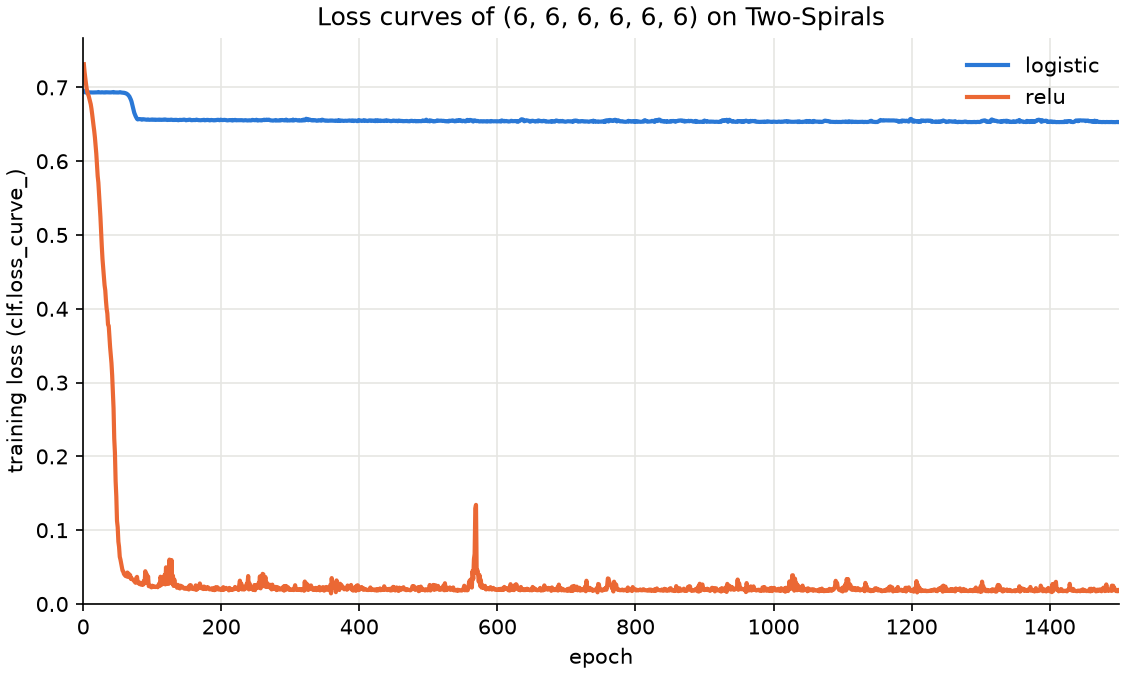
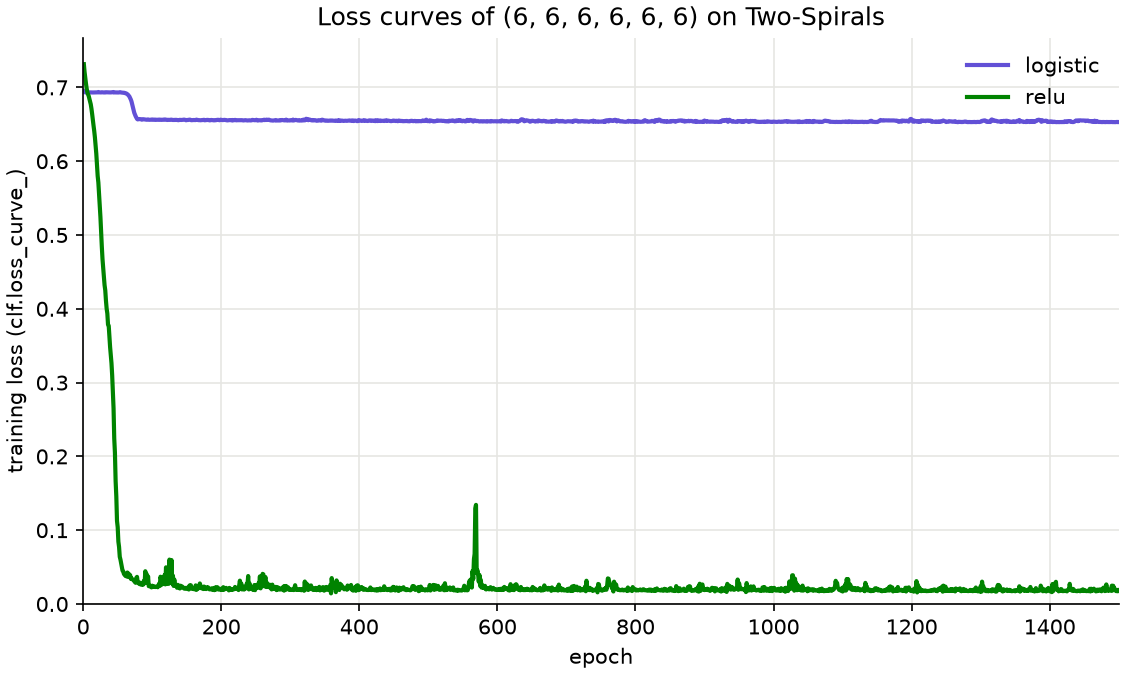
feat(part2): print lowest loss, train-test gaps and snapshot accuracies

Changed region(s): [[0.0933, 0.4356, 0.9956, 0.9022], [0.0622, 0.0933, 0.9956, 0.4044]]

diff --git a/part2_sklearn_exploration.py b/part2_sklearn_exploration.py
@@ -39,6 +39,7 @@ EVOLUTION_EPOCHS = (1, 25, 100, 300, 1000)
 CLASS_COLORS = ("#2a78d6", "#eb6834")
 REGION_COLORS = ("#d9e7f8", "#fbe4da")
 LINE_COLOR = "#222222"
+CURVE_COLORS = ("#6250d6", "#008300")  # the two loss curves
 
 
 def train(hidden_layer_sizes, activation, X, y):
@@ -56,6 +57,8 @@ def n_parameters(clf):
     return sum(W.size for W in clf.coefs_) + sum(b.size for b in clf.intercepts_)
 
 
+# make_grid, plot_boundary and add_legend are the same as in Part 1. common.py has to stay
+# exactly as the handout prints it, so they cannot be shared from there.
 def make_grid(X, n=300, margin=0.5):
     """An n x n grid covering the points X, as two meshgrid arrays and as an (n * n, 2) array."""
     x1 = np.linspace(X[:, 0].min() - margin, X[:, 0].max() + margin, n)
@@ -68,7 +71,7 @@ def plot_boundary(ax, G1, G2, P, X, y):
     """P is P(class 1) on the grid: shade the two regions, draw the 0.5 line, plot the points."""
     P = P.reshape(G1.shape)
     ax.contourf(G1, G2, P, levels=[0, 0.5, 1], colors=REGION_COLORS)
-    if P.min() < 0.5 < P.max():
+    if P.min() < 0.5 < P.max():  # no line to draw if the whole grid is on one side of 0.5
         ax.contour(G1, G2, P, levels=[0.5], colors=LINE_COLOR, linewidths=1.2)
     for label, color in enumerate(CLASS_COLORS):
         pts = X[y == label]
@@ -105,7 +108,7 @@ def loss_curve_figure(models):
     """Training loss per epoch of the deepest architecture, one line per activation."""
     arch = ARCHITECTURES[-1]
     fig, ax = plt.subplots(figsize=(7.5, 4.5), layout="constrained")
-    for activation, color in zip(ACTIVATIONS, CLASS_COLORS, strict=True):
+    for activation, color in zip(ACTIVATIONS, CURVE_COLORS, strict=True):
         curve = models[arch, activation].loss_curve_
         ax.plot(range(1, len(curve) + 1), curve, color=color, linewidth=2, label=activation)
     ax.set_xlabel("epoch")
@@ -168,6 +171,12 @@ def main():
             cells = (pct(train_acc), pct(test_acc), f"{clf.loss_:.4f}", f"{norm:.4f}")
             print(row.format(str(arch), activation, *cells))
 
+    deepest = ARCHITECTURES[-1]
+    lowest = {a: min(models[deepest, a].loss_curve_) for a in ACTIVATIONS}
+    print(f"\nLowest value of loss_curve_ for {deepest} over the 1500 epochs")
+    for activation in ACTIVATIONS:
+        print(f"  {activation:<10}  {lowest[activation]:.4f}")
+
     fig = depth_vs_width_figure(models, X_train, y_train)
     fig.savefig("part2_depth_vs_width.png", dpi=150)
     plt.close(fig)
@@ -177,8 +186,8 @@ def main():
     print("\nSaved part2_depth_vs_width.png and part2_loss_curves.png")
 
     print("\nTable 4: width sweep, two hidden layers (M, M) (Two-Spirals)")
-    row = "  {:<12}  {:>5}  {:<10}  {:>14}  {:>13}"
-    print(row.format("Architecture", "P", "Activation", "Train acc. (%)", "Test acc. (%)"))
+    row = "  {:<12}  {:>5}  {:<10}  {:>14}  {:>13}  {:>12}"
+    print(row.format("Architecture", "P", "Activation", *header[2:], "Train - test"))
     table4 = []
     for M in WIDTHS:
         for activation in ACTIVATIONS:
@@ -186,17 +195,23 @@ def main():
             P = n_parameters(clf)
             assert P == M * M + 5 * M + 1
             train_acc, test_acc = clf.score(X_train, y_train), clf.score(X_test, y_test)
-            table4.append((M, activation, P, train_acc, test_acc))
-            print(row.format(str((M, M)), P, activation, pct(train_acc), pct(test_acc)))
+            gap = float(pct(train_acc)) - float(pct(test_acc))  # between the two printed values
+            table4.append((M, activation, P, train_acc, test_acc, gap))
+            cells = (pct(train_acc), pct(test_acc), f"{gap:+.2f}")
+            print(row.format(str((M, M)), P, activation, *cells))
 
     snapshots = boundary_evolution(X_train, y_train)
     fig = evolution_figure(snapshots, X_train, y_train)
     fig.savefig("part2_boundary_evolution.png", dpi=150)
     plt.close(fig)
-    print("\nSaved part2_boundary_evolution.png ((16, 16), epochs 1, 25, 100, 300 and 1000)")
-    evolution = [(a, epoch, acc) for (a, epoch), (_, acc) in snapshots.items()]
-    deepest = {a: min(models[ARCHITECTURES[-1], a].loss_curve_) for a in ACTIVATIONS}
-    return {"table3": table3, "table4": table4, "evolution": evolution, "deepest_min_loss": deepest}
+    print("\n(16, 16) trained with partial_fit: train acc. (%) after epochs 1, 25, 100, 300, 1000")
+    evolution = {}
+    for activation in ACTIVATIONS:
+        evolution[activation] = [snapshots[activation, epoch][1] for epoch in EVOLUTION_EPOCHS]
+        print(f"  {activation:<10}  " + "  ".join(pct(acc) for acc in evolution[activation]))
+    print("\nSaved part2_boundary_evolution.png")
+    # the numbers printed above, for whoever calls main()
+    return {"table3": table3, "table4": table4, "lowest_loss": lowest, "evolution": evolution}
 
 
 if __name__ == "__main__":

diff --git a/tools/run_all.py b/tools/run_all.py
@@ -65,12 +65,6 @@ def sci(x):
     return rf"{mantissa} \times 10^{{{int(exponent)}}}"
 
 
-def gap(train, test):
-    """Train minus test accuracy in points, taken between the two printed values."""
-    value = f"{float(pct(train)) - float(pct(test)):+.2f}"
-    return value.replace("-", r"\textminus{}")
-
-
 def macros(r):
     m = {}
     p1, p2 = r["part1"], r["part2"]
@@ -87,18 +81,16 @@ def macros(r):
         key = f"t3-{len(arch)}-{activation}"  # the number of hidden layers names the architecture
         m[f"{key}-train"], m[f"{key}-test"] = pct(train), pct(test)
         m[f"{key}-loss"], m[f"{key}-norm"] = f"{loss:.4f}", f"{norm:.4f}"
-    for M, activation, P, train, test in p2["table4"]:
+    for M, activation, P, train, test, gap in p2["table4"]:
         key = f"t4-{M}-{activation}"
-        m[f"{key}-train"], m[f"{key}-test"], m[f"{key}-gap"] = (
-            pct(train),
-            pct(test),
-            gap(train, test),
-        )
+        m[f"{key}-train"], m[f"{key}-test"] = pct(train), pct(test)
+        m[f"{key}-gap"] = f"{gap:+.2f}".replace("-", r"\textminus{}")
         m[f"t4-{M}-P"] = str(P)
-    for activation, epoch, train in p2["evolution"]:
-        m[f"evo-{activation}-{epoch}"] = pct(train)
-    for activation, loss in p2["deepest_min_loss"].items():
+    for activation, loss in p2["lowest_loss"].items():
         m[f"t3-6-{activation}-minloss"] = f"{loss:.4f}"
+    for activation, accs in p2["evolution"].items():
+        for epoch, acc in zip(part2_sklearn_exploration.EVOLUTION_EPOCHS, accs, strict=True):
+            m[f"evo-{activation}-{epoch}"] = pct(acc)
 
     m["python"] = platform.python_version()
     m["numpy"], m["sklearn"], m["matplotlib"] = (
@@ -120,7 +112,7 @@ def main():
     for name in names:
         results[name] = plain(run(name))
     path.write_text(json.dumps(results, indent=1) + "\n")
-    lines = ["% Generated by python -m tools.run_all from results/results.json; do not edit."]
+    lines = ["% Written by python -m tools.run_all from results/results.json; do not edit."]
     lines += [rf"\resdef{{{k}}}{{{v}}}" for k, v in macros(results).items()]
     (RESULTS / "numbers.tex").write_text("\n".join(lines) + "\n")
 

diff --git a/results/numbers.tex b/results/numbers.tex
@@ -1,4 +1,4 @@
-% Generated by python -m tools.run_all from results/results.json; do not edit.
+% Written by python -m tools.run_all from results/results.json; do not edit.
 \resdef{gc-lrelu}{3.5 \times 10^{-10}}
 \resdef{gc-lrelu-rows}{0--4}
 \resdef{gc-tanh}{8.0 \times 10^{-11}}
@@ -97,6 +97,8 @@
 \resdef{t4-64-relu-train}{99.17}
 \resdef{t4-64-relu-test}{98.33}
 \resdef{t4-64-relu-gap}{+0.84}
+\resdef{t3-6-logistic-minloss}{0.6529}
+\resdef{t3-6-relu-minloss}{0.0144}
 \resdef{evo-logistic-1}{50.42}
 \resdef{evo-logistic-25}{62.29}
 \resdef{evo-logistic-100}{61.04}
@@ -107,8 +109,6 @@
 \resdef{evo-relu-100}{98.54}
 \resdef{evo-relu-300}{98.96}
 \resdef{evo-relu-1000}{98.96}
-\resdef{t3-6-logistic-minloss}{0.6529}
-\resdef{t3-6-relu-minloss}{0.0144}
 \resdef{python}{3.12.10}
 \resdef{numpy}{2.5.5}
 \resdef{sklearn}{1.9.1}
